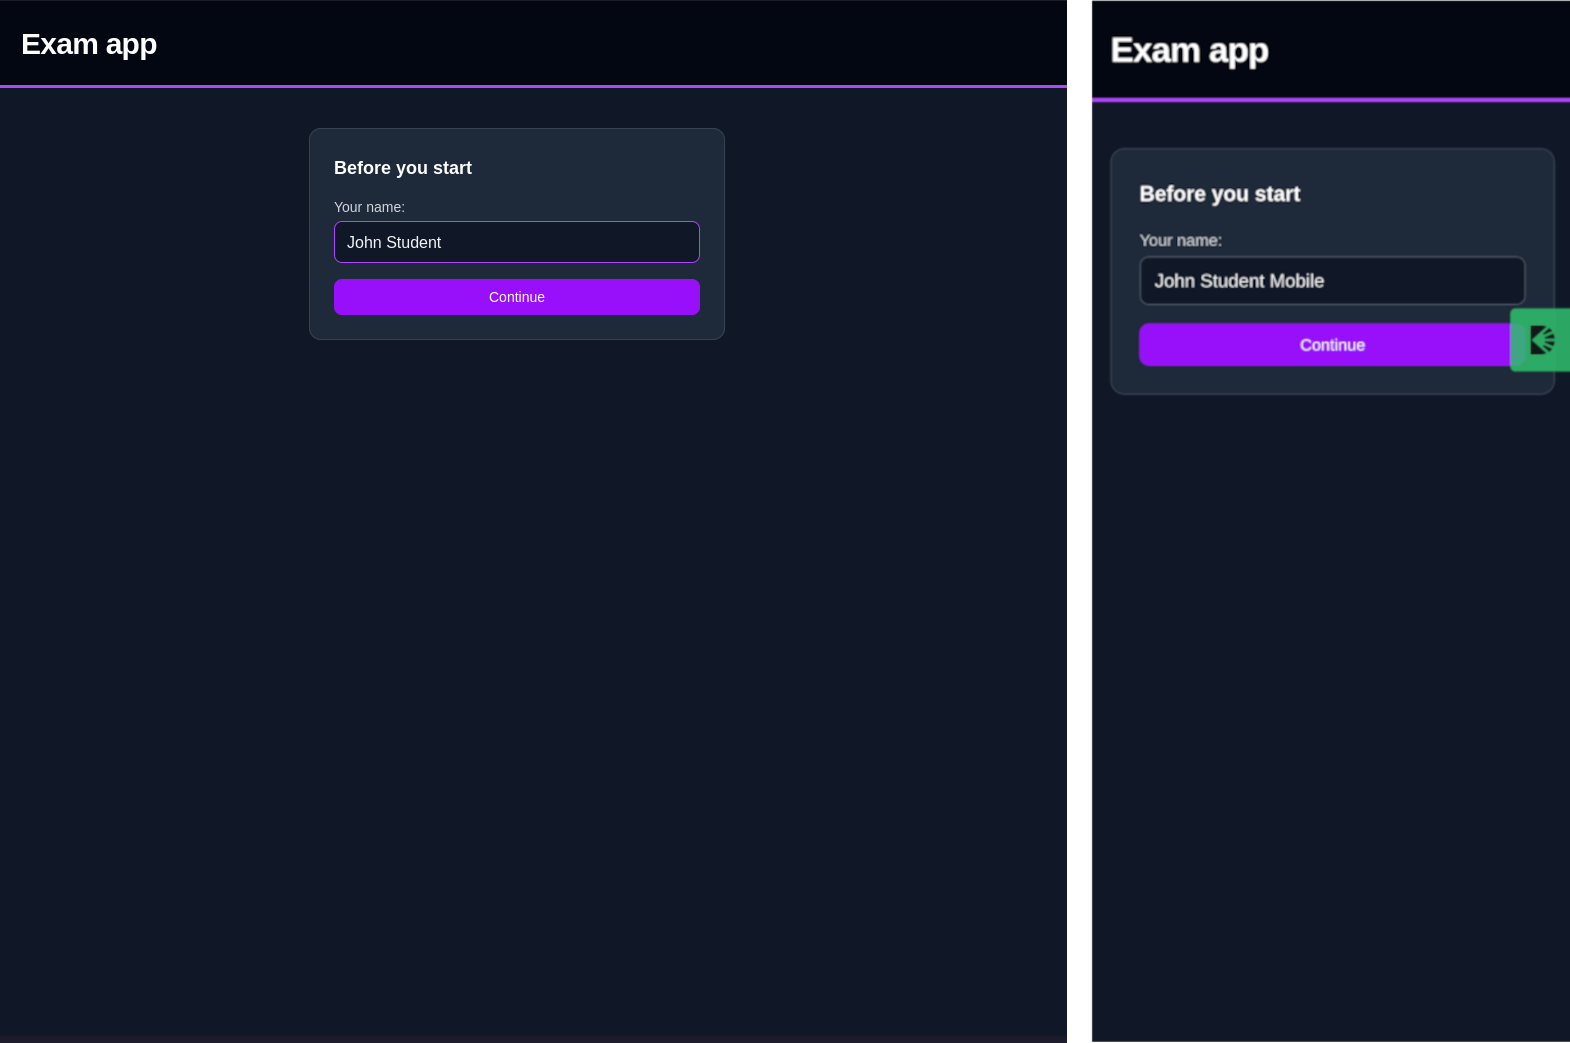
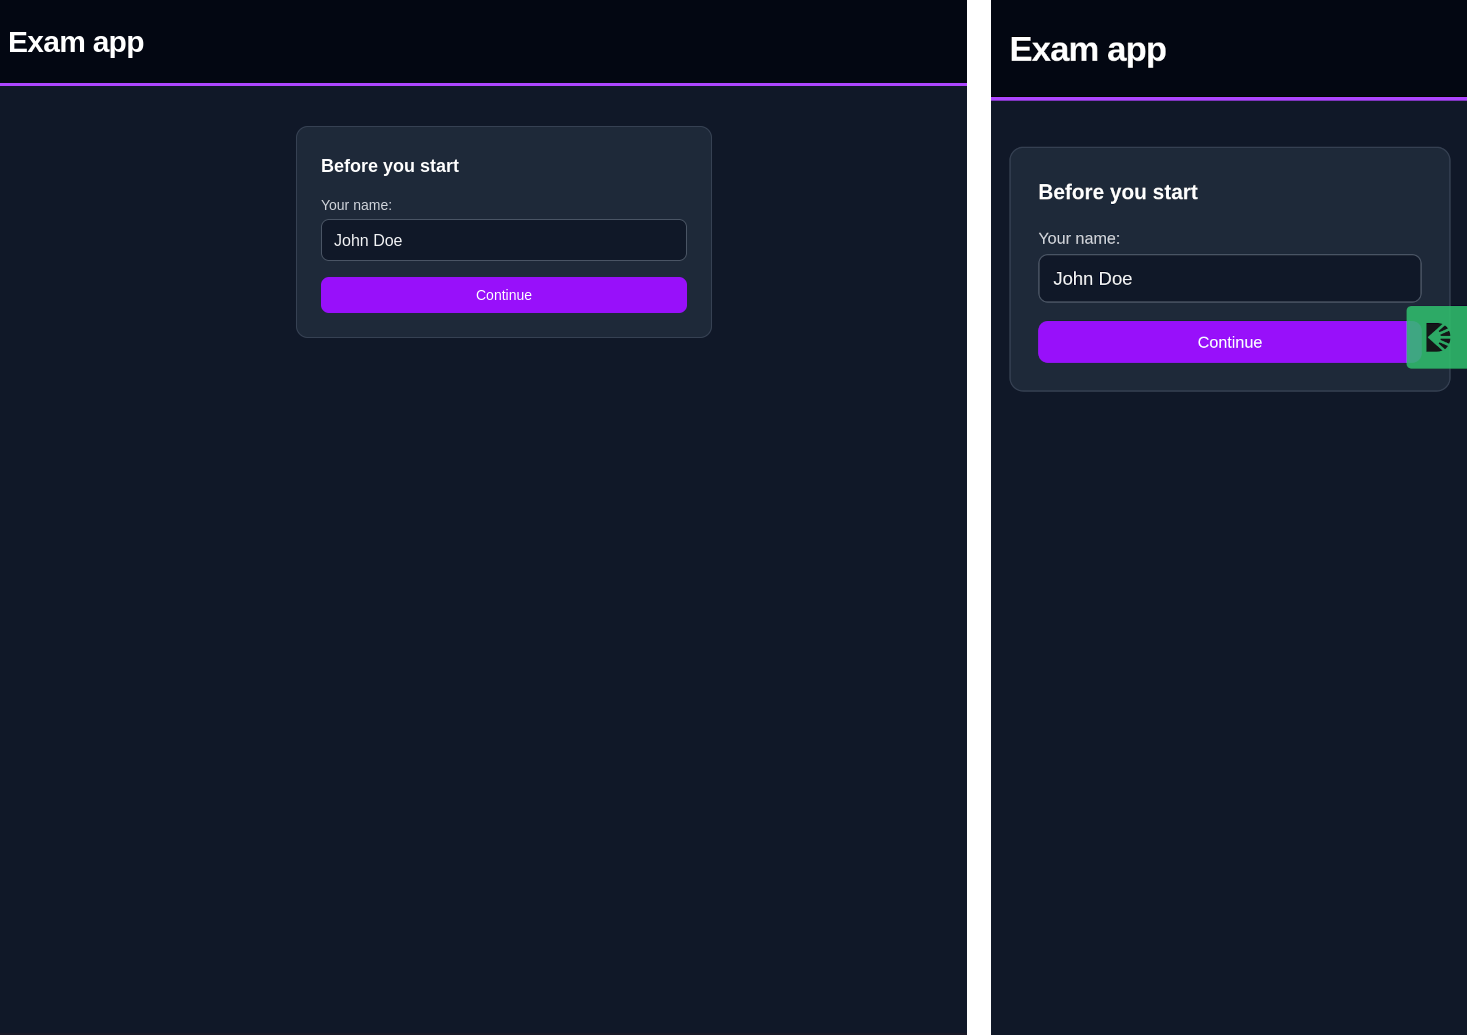
Improved a few screenshots and minor README modifications

diff --git a/README.md b/README.md
@@ -26,11 +26,11 @@ User picks an available option of their choice and is greeted with the following
 
 ![Image of poll detail/voting view](mdImages/pollDetail.png)
 
-User votes on all available polling questions (in this case why not both and bats respectively) and reaches the results page:
+User votes on all available polling question and reaches the results page:
 
 ![Image of poll results view with pie charts](mdImages/pollResults.png)
 
-The user then sees pie charts of the resulting polls (in this case with 1 color since they're the first to vote) and is allowed to return to the front page once more.
+The user then sees pie charts of the resulting polls and is allowed to return to the front page once more.
 
 ### Case 2:
 You are holding a meeting or presentation, maybe teaching a class.
@@ -82,7 +82,7 @@ After giving yourself a name, you're redirected to the exam you actually chose:
 ![Image of the detail/attempt view of an exam](mdImages/examDetail.png)
 
 This page is practically identical to the one in the polling app, except for the fact that there is an end date visible. For the same reason as the index page having it.
-The user answers the questions to the best of their ability (in this case options 1, 3 and 3):
+The user answers the questions to the best of their ability:
 
 ![Image of the result view of an exam](mdImages/examResults.png)
 
